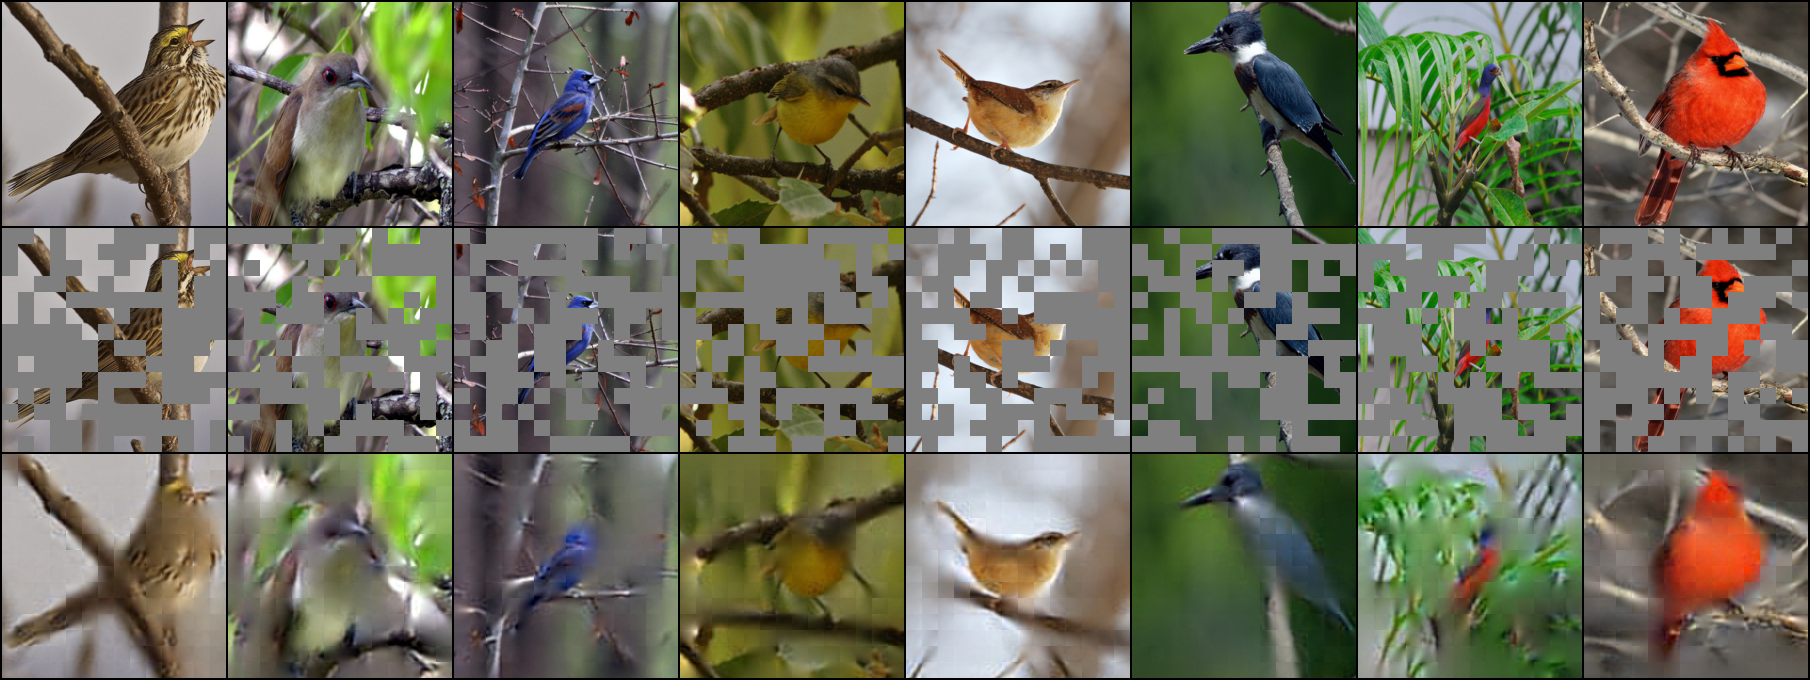
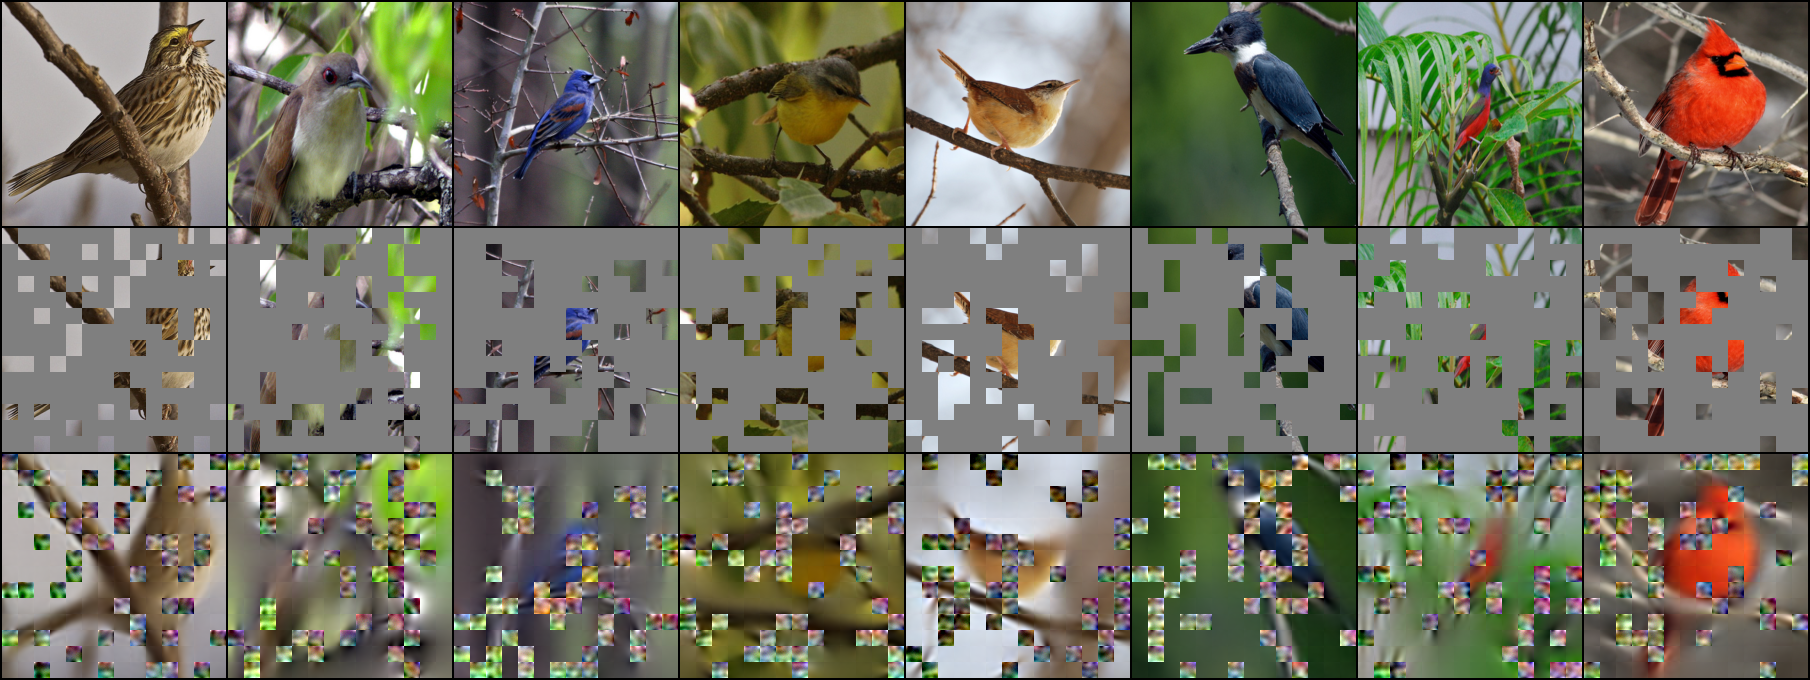
Update with corrected samples

Changed region(s): [[0.0, 0.3088, 1.0, 1.0]]

diff --git a/README.md b/README.md
@@ -11,6 +11,12 @@ A simple, unofficial implementation of MAE ([Masked Autoencoders are Scalable Vi
 
 Currently implements training on [CUB](http://www.vision.caltech.edu/visipedia/CUB-200-2011.html) and [StanfordCars](http://ai.stanford.edu/~jkrause/cars/car_dataset.html), but is easily extensible to any other image dataset.
 
+## Updates
+
+### February 4, 2022
+
+- Fixed a bug in the code for generating mask indices. Retrained and updated the reconstruction figures (see below). They aren't quite as pretty now, but they make more sense.
+
 ## Setup
 
 ```bash
